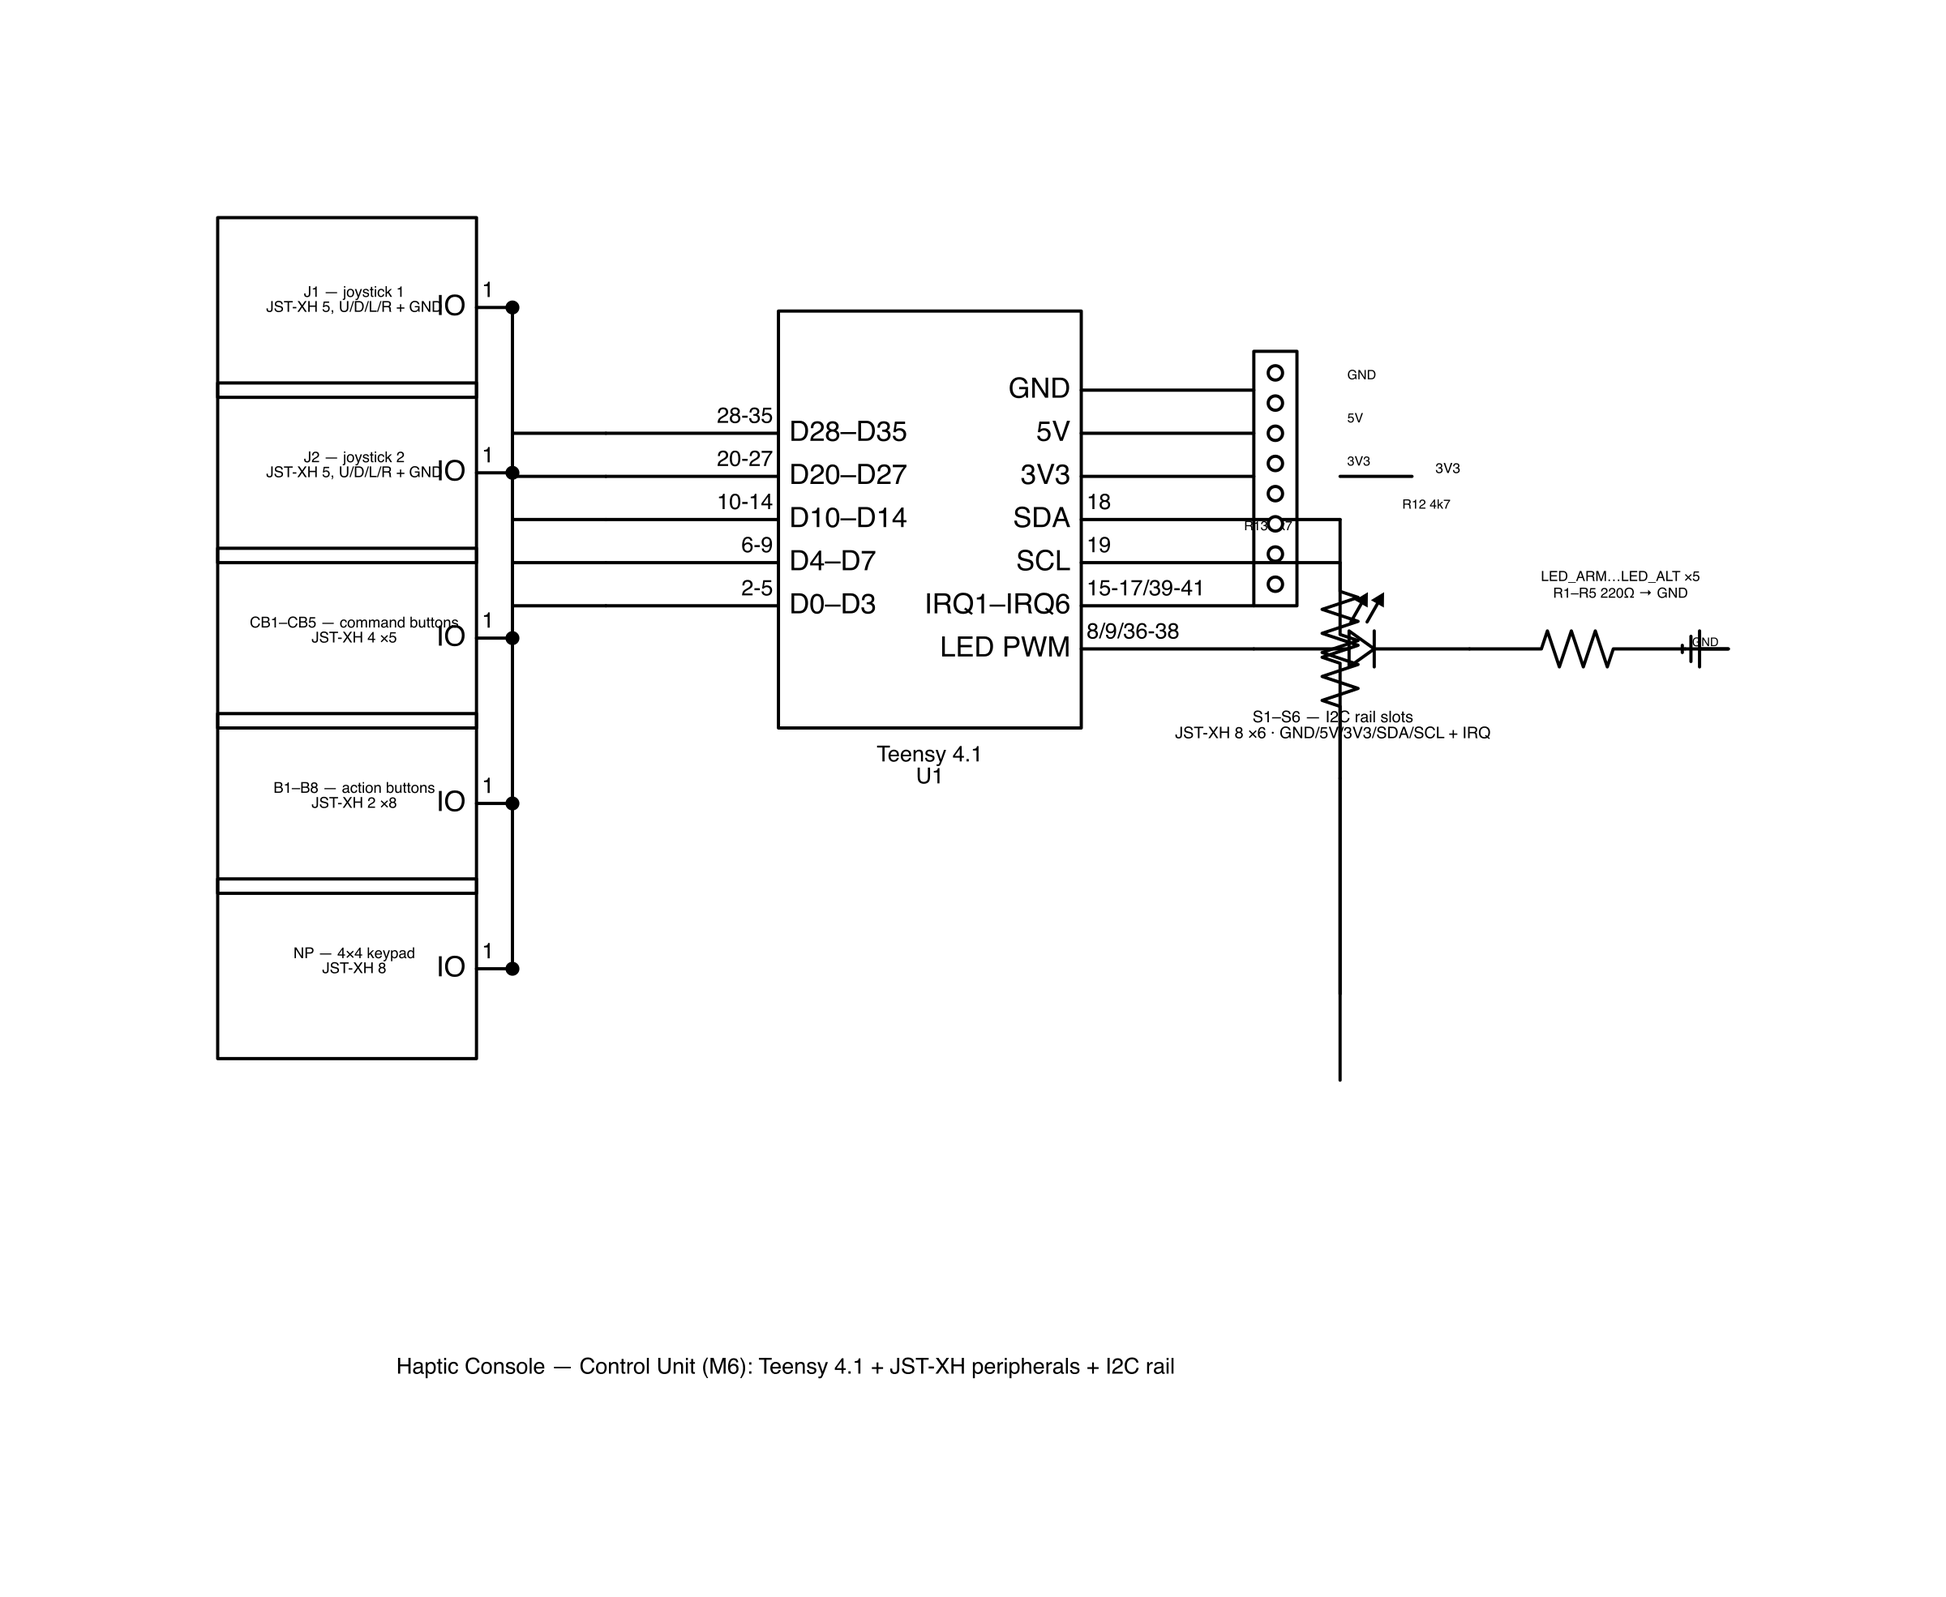
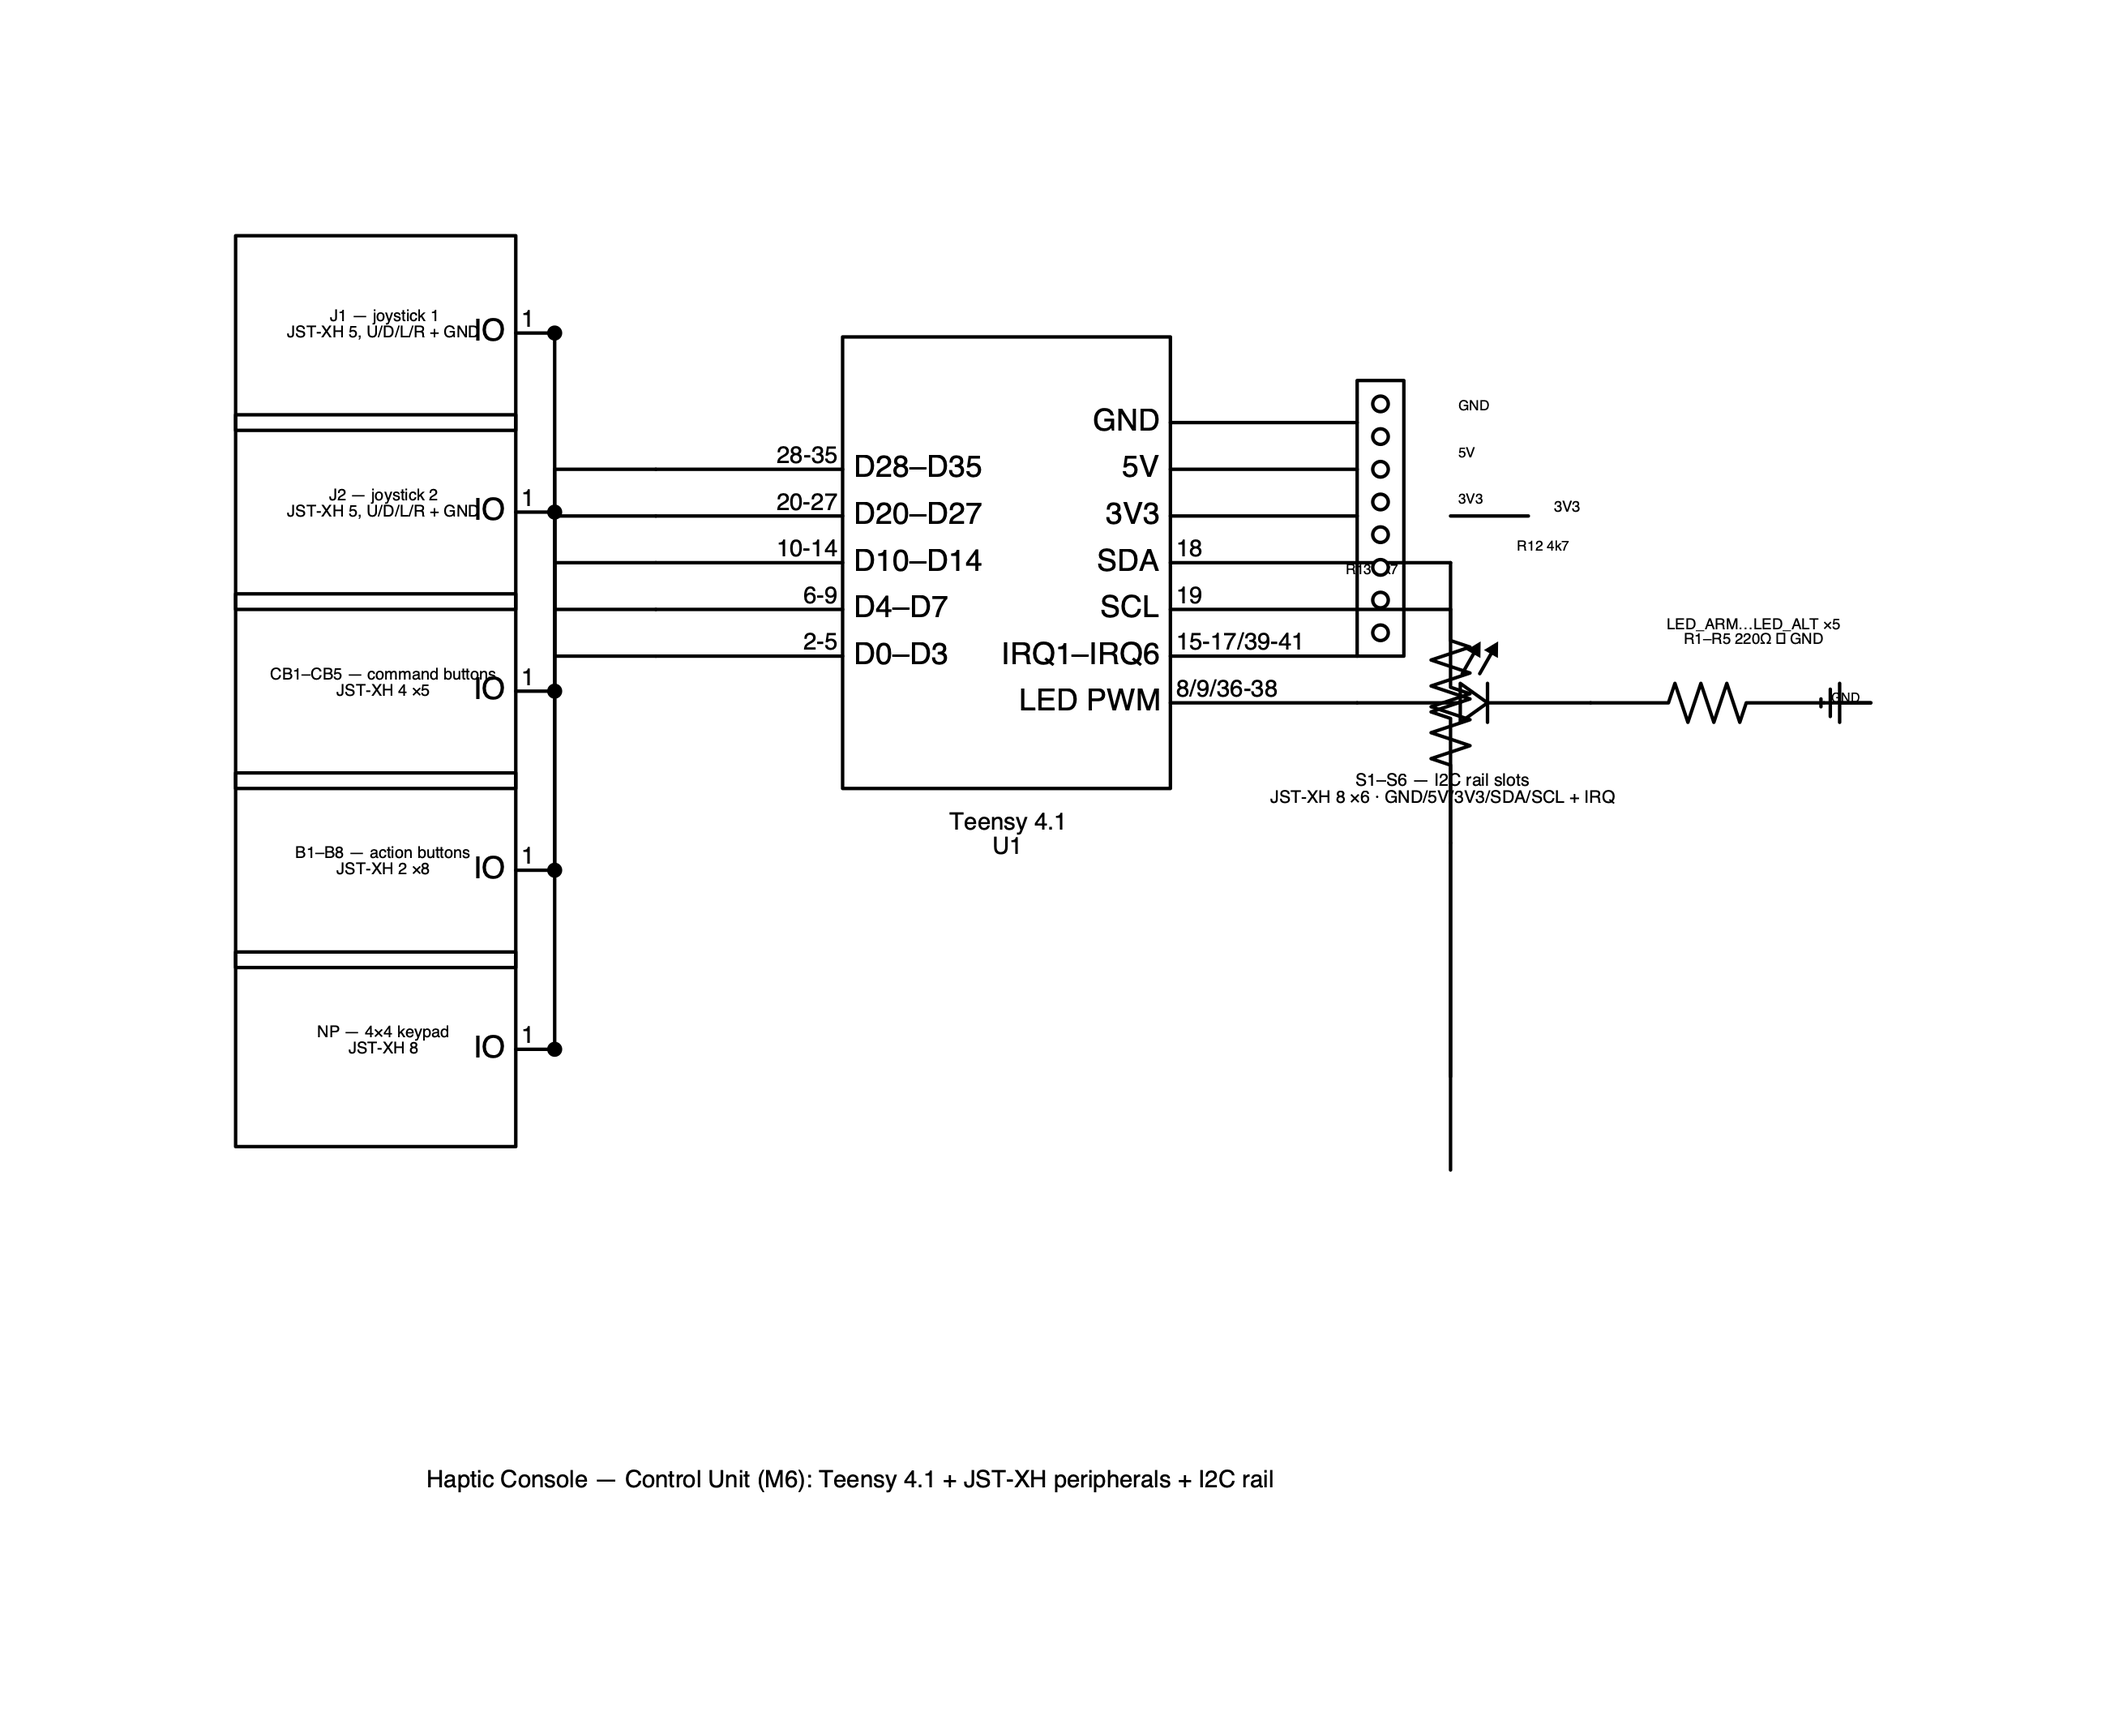
Fix schemdraw diagram script output path and pin its venv deps
control_unit_circuit.py hardcoded an output path outside this repo (leftover
from wherever it was first drafted); it now resolves docs/ from __file__ and
writes both the SVG and its PNG twin (via cairosvg) itself. Added
scripts/requirements.txt for the dedicated scripts/.venv. The reusable
schemdraw-drawing skill itself now lives at
https://github.com/speedypleath/schemdraw-skill.

diff --git a/scripts/control_unit_circuit.py b/scripts/control_unit_circuit.py
@@ -1,8 +1,12 @@
 """Haptic Console - Control Unit (M6) circuit diagram via SchemDraw (v10, final)."""
+from pathlib import Path
+
+import cairosvg
 import schemdraw
 import schemdraw.elements as elm
 
-OUT = "/Users/speedypleath/.openclaw/workspace/agents/dissertation-manager/.openclaw/tmp/schemdraw/control-unit-circuit.svg"
+DOCS = Path(__file__).resolve().parent.parent / "docs"
+OUT = str(DOCS / "control-unit-circuit.svg")
 
 with schemdraw.Drawing(file=OUT, show=False) as d:
     d.config(fontsize=9, lw=1.6, margin=3)
@@ -83,4 +87,6 @@ with schemdraw.Drawing(file=OUT, show=False) as d:
                                        fontsize=11)
 
 d.save(OUT)
-print('saved', OUT)
+png_out = str(DOCS / "control-unit-circuit.png")
+cairosvg.svg2png(url=OUT, write_to=png_out, scale=2)
+print('saved', OUT, 'and', png_out)
